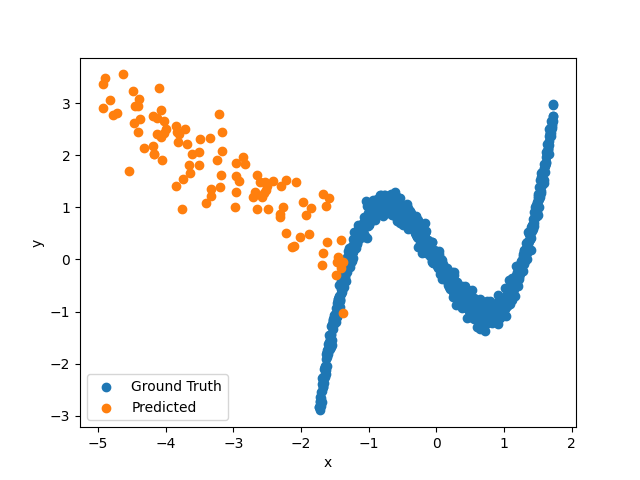
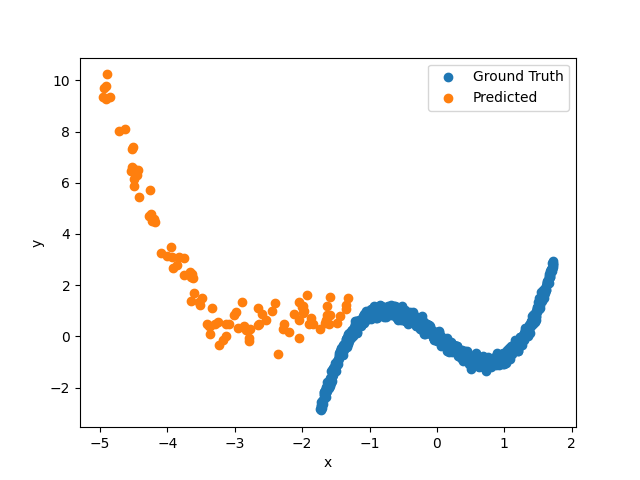
mine fix

diff --git a/modril/toy/gail.py b/modril/toy/gail.py
@@ -67,7 +67,8 @@ class GAIL:
 
 class DRAIL:
     def __init__(self, agent, state_dim, action_dim, device, disc_lr=1e-3, label_dim=10, epochs=5):
-        self.discriminator = Discriminator(mode="mfd", state_dim=state_dim, action_dim=action_dim, label_dim=label_dim).to(device)
+        self.discriminator = Discriminator(mode="mfd", state_dim=state_dim, action_dim=action_dim,
+                                           label_dim=label_dim).to(device)
         self.opt = torch.optim.Adam(self.discriminator.parameters(), lr=disc_lr)
         self.agent = agent
         self.device = device
@@ -75,7 +76,8 @@ class DRAIL:
         self.epochs = epochs
 
     def learn(self, expert_s, expert_a, agent_s, agent_a, next_s):
-        xs_E = torch.tensor(np.stack([expert_s.squeeze(), expert_a.squeeze()], axis=1), dtype=torch.float32, device=self.device)
+        xs_E = torch.tensor(np.stack([expert_s.squeeze(), expert_a.squeeze()], axis=1), dtype=torch.float32,
+                            device=self.device)
         xs_A = torch.tensor(np.stack([agent_s, agent_a], axis=1), dtype=torch.float32, device=self.device)
         # now (batch, 2)
         xs_E = xs_E.view(xs_E.size(0), -1)
@@ -134,12 +136,14 @@ class GAIL_MI:
                                dones=[False] * len(agent_s))
         self.agent.update(transition_dict)
 
+
 class GAIL_Flow:
     """
     mode = 'ffjord'  or  'fm'
     density_E  -- offline  pre-trained   (固定)
     density_A  -- online   1-2 step
     """
+
     def __init__(self, agent, state_dim, action_dim, device, mode="ffjord", lr=1e-3):
         self.mode = mode
         dim = state_dim + action_dim
@@ -162,7 +166,7 @@ class GAIL_Flow:
         a_A: [B, action_dim]
         """
         if self.mode == "ffjord":
-            xs_A = torch.cat([s_A, a_A], dim=1)    # [B, state_dim+action_dim]
+            xs_A = torch.cat([s_A, a_A], dim=1)  # [B, state_dim+action_dim]
             loss = self.A.nll(xs_A)
         else:
             loss = self.A.c_fm_loss(s_A, a_A)
@@ -175,7 +179,7 @@ class GAIL_Flow:
         # xs_E = torch.tensor(np.stack([expert_s, expert_a], 1), dtype=torch.float32, device=self.device)
         s_A = torch.tensor(agent_s, dtype=torch.float32, device=self.device)
         a_A = torch.tensor(agent_a, dtype=torch.float32, device=self.device)
-        xs_A = torch.tensor(np.stack([agent_s,  agent_a], 1), dtype=torch.float32, device=self.device)
+        xs_A = torch.tensor(np.stack([agent_s, agent_a], 1), dtype=torch.float32, device=self.device)
         if s_A.dim() == 1:
             s_A = s_A.unsqueeze(-1)
         if a_A.dim() == 1:
@@ -186,7 +190,7 @@ class GAIL_Flow:
             logp_E = self.E.log_prob(xs_A).cpu().numpy()
             logp_A = self.A.log_prob(xs_A).cpu().numpy()
             rewards = logp_E - logp_A
-            rewards = (rewards - rewards.mean()) / (rewards.std()+1e-8)
+            rewards = (rewards - rewards.mean()) / (rewards.std() + 1e-8)
 
         self.agent.update(
             dict(
@@ -194,7 +198,6 @@ class GAIL_Flow:
                 actions=agent_a,
                 rewards=rewards,
                 next_states=next_s,
-                dones=[False]*len(agent_s)
+                dones=[False] * len(agent_s)
             )
         )
-

diff --git a/modril/toy/discriminators.py b/modril/toy/discriminators.py
@@ -138,11 +138,26 @@ class MI_Estimator:
 
     def estimate_and_update(self, s_E, a_E, s_A, a_A):
         """"""
-        s_E = torch.tensor(s_E, dtype=torch.float32, device=self.device).unsqueeze(1)
-        a_E = torch.tensor(a_E, dtype=torch.float32, device=self.device).unsqueeze(1)
-        s_A = torch.tensor(s_A, dtype=torch.float32, device=self.device).unsqueeze(1)
-        a_A = torch.tensor(a_A, dtype=torch.float32, device=self.device).unsqueeze(1)
+        s_E = torch.tensor(s_E, dtype=torch.float32, device=self.device)
+        a_E = torch.tensor(a_E, dtype=torch.float32, device=self.device)
+        s_A = torch.tensor(s_A, dtype=torch.float32, device=self.device)
+        a_A = torch.tensor(a_A, dtype=torch.float32, device=self.device)
 
+        # if they came in as 1-D, make them (batch,1)
+        if s_E.dim() == 1:
+            s_E = s_E.unsqueeze(1)
+
+        if a_E.dim() == 1:
+            a_E = a_E.unsqueeze(1)
+
+        if s_A.dim() == 1:
+            s_A = s_A.unsqueeze(1)
+
+        if a_A.dim() == 1:
+            a_A = a_A.unsqueeze(1)
+
+        x_E = torch.cat([s_E, a_E], dim=1)  # (batch, 2)
+        x_A = torch.cat([s_A, a_A], dim=1)  # (batch, 2)
         T_E = self.T(s_E, a_E)
         T_A = self.T(s_A, a_A)
 

diff --git a/modril/toy/trainer.py b/modril/toy/trainer.py
@@ -240,7 +240,7 @@ class Trainer:
 
 
 if __name__ == '__main__':
-    tr = Trainer('poly', 'mine')
+    tr = Trainer('sine', 'ffjord')
     tr.runner()
     tr.plot()
     # tr.plot(kind='reward_heatmap', extent=(-1, 1))
